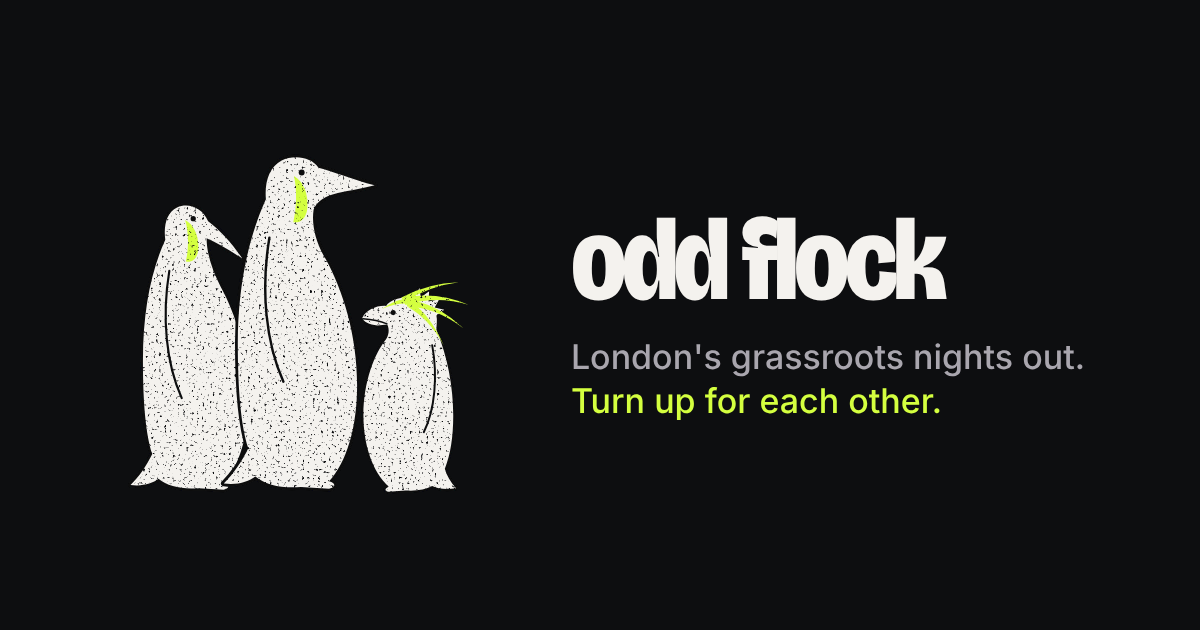
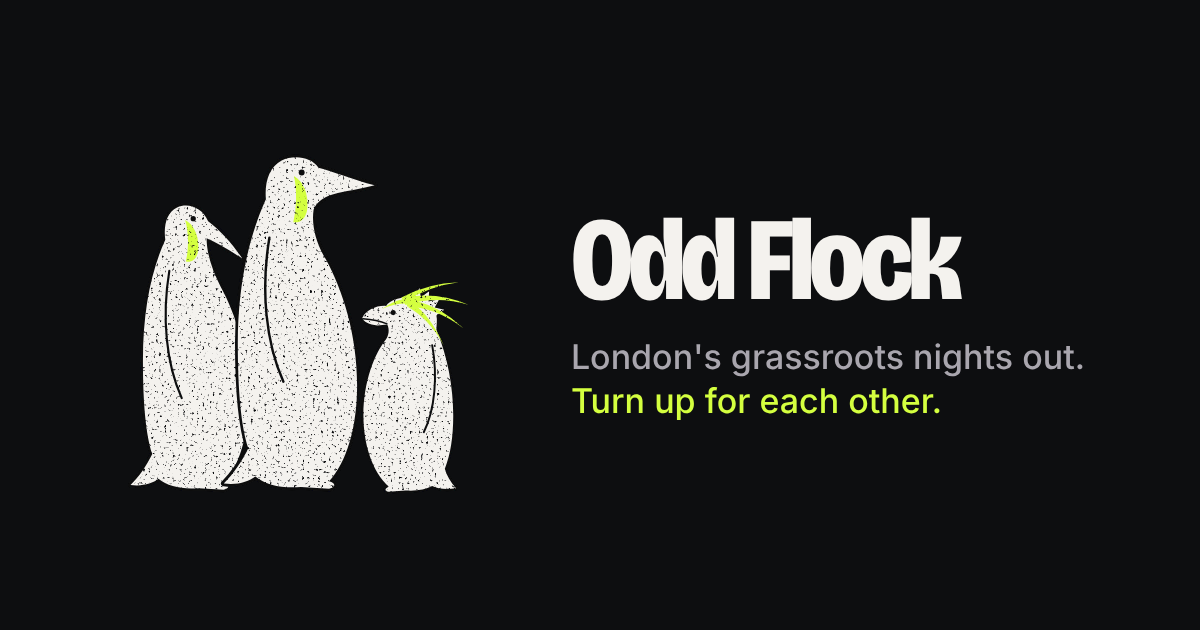
Wordmark reads Odd Flock; Try colours: a floating button (and swatches in Settings) to preview seven palettes — Volt, Crest, Ember, Krill, Aurora, Glacier, Tuxedo — saved per device and applied before first paint
Claude-Session: https://claude.ai/code/session_01XzMa5NHq4JzfZ3jRcp9Sud

Changed region(s): [[0.4625, 0.3317, 0.8017, 0.4825]]

diff --git a/src/css/v2.css b/src/css/v2.css
@@ -5646,3 +5646,45 @@ html body .feed-brand,html body .logo-wrap{white-space:nowrap;flex-shrink:0;}
 html body .feed-head-actions{min-width:0;}
 html body .feed-head-actions > *{white-space:nowrap;}
 @media (max-width:400px){html body .feed-brand{font-size:20px;gap:7px;}html body .feed-brand .feed-mark{width:32px;height:32px;}html body .feed-head-actions{gap:6px;}}
+
+/* ══ Colour palettes (trial) ═══════════════════════════════════════════
+   data-palette on <html> swaps the accent family; Volt is the default.
+   Picked from the "Try colours" button or Settings, saved per device. */
+html[data-palette="crest"][data-theme]{--volt:#ffc93c;--volt-ink:#1a1200;--hot:#ff5a3c;--uv:#7c5cff;}
+html[data-palette="crest"][data-theme="dark"]{--accent:#ffc93c !important;--accent-deep:#f0b21a !important;--gold:#ffc93c !important;--gold-text:#ffc93c !important;--gold-tint:rgba(255, 201, 60, 0.12) !important;--cta-bg:#ffc93c;--cta-fg:#1a1200;}
+html[data-palette="crest"][data-theme="light"]{--accent:#8a5a00 !important;--accent-deep:#6e4700 !important;--gold:#8a5a00 !important;--gold-text:#8a5a00 !important;--gold-tint:rgba(255, 201, 60, 0.14) !important;--cta-bg:#0b0b0d;--cta-fg:#ffc93c;}
+html[data-palette="ember"][data-theme]{--volt:#ff9f45;--volt-ink:#1f0e00;--hot:#ff3d6e;--uv:#6d5cff;}
+html[data-palette="ember"][data-theme="dark"]{--accent:#ff9f45 !important;--accent-deep:#f08a2a !important;--gold:#ff9f45 !important;--gold-text:#ff9f45 !important;--gold-tint:rgba(255, 159, 69, 0.12) !important;--cta-bg:#ff9f45;--cta-fg:#1f0e00;}
+html[data-palette="ember"][data-theme="light"]{--accent:#a14d00 !important;--accent-deep:#823d00 !important;--gold:#a14d00 !important;--gold-text:#a14d00 !important;--gold-tint:rgba(255, 159, 69, 0.14) !important;--cta-bg:#0b0b0d;--cta-fg:#ff9f45;}
+html[data-palette="krill"][data-theme]{--volt:#ff7f73;--volt-ink:#1d0705;--hot:#e5245a;--uv:#7c5cff;}
+html[data-palette="krill"][data-theme="dark"]{--accent:#ff7f73 !important;--accent-deep:#f2685c !important;--gold:#ff7f73 !important;--gold-text:#ff7f73 !important;--gold-tint:rgba(255, 127, 115, 0.12) !important;--cta-bg:#ff7f73;--cta-fg:#1d0705;}
+html[data-palette="krill"][data-theme="light"]{--accent:#b8322a !important;--accent-deep:#962620 !important;--gold:#b8322a !important;--gold-text:#b8322a !important;--gold-tint:rgba(255, 127, 115, 0.14) !important;--cta-bg:#0b0b0d;--cta-fg:#ff7f73;}
+html[data-palette="aurora"][data-theme]{--volt:#5cf2c4;--volt-ink:#02150f;--hot:#ff5fa2;--uv:#8b7bff;}
+html[data-palette="aurora"][data-theme="dark"]{--accent:#5cf2c4 !important;--accent-deep:#38dcae !important;--gold:#5cf2c4 !important;--gold-text:#5cf2c4 !important;--gold-tint:rgba(92, 242, 196, 0.12) !important;--cta-bg:#5cf2c4;--cta-fg:#02150f;--bg:#06090a !important;--bg-2:#040607 !important;--surface:#0f1416 !important;--surface-2:#172022 !important;--glass:rgba(15,20,22,.72);}
+html[data-palette="aurora"][data-theme="light"]{--accent:#0a7a5a !important;--accent-deep:#075f46 !important;--gold:#0a7a5a !important;--gold-text:#0a7a5a !important;--gold-tint:rgba(92, 242, 196, 0.14) !important;--cta-bg:#0b0b0d;--cta-fg:#5cf2c4;}
+html[data-palette="glacier"][data-theme]{--volt:#8cd4ff;--volt-ink:#021320;--hot:#ff6b8b;--uv:#9a8cff;}
+html[data-palette="glacier"][data-theme="dark"]{--accent:#8cd4ff !important;--accent-deep:#6cc2f5 !important;--gold:#8cd4ff !important;--gold-text:#8cd4ff !important;--gold-tint:rgba(140, 212, 255, 0.12) !important;--cta-bg:#8cd4ff;--cta-fg:#021320;--bg:#070a10 !important;--bg-2:#05070b !important;--surface:#10141c !important;--surface-2:#182030 !important;--glass:rgba(16,20,28,.74);}
+html[data-palette="glacier"][data-theme="light"]{--accent:#0a5d94 !important;--accent-deep:#084a76 !important;--gold:#0a5d94 !important;--gold-text:#0a5d94 !important;--gold-tint:rgba(140, 212, 255, 0.14) !important;--cta-bg:#0b0b0d;--cta-fg:#8cd4ff;--bg:#eef2f6 !important;--bg-2:#e2e8ef !important;--surface-2:#e6ecf2 !important;}
+html[data-palette="tuxedo"][data-theme]{--volt:#f4f2ee;--volt-ink:#0b0b0d;--hot:#ff3d6e;--uv:#8b5cff;}
+html[data-palette="tuxedo"][data-theme="dark"]{--accent:#f4f2ee !important;--accent-deep:#dcd9d2 !important;--gold:#f4f2ee !important;--gold-text:#f4f2ee !important;--gold-tint:rgba(244, 242, 238, 0.12) !important;--cta-bg:#f4f2ee;--cta-fg:#0b0b0d;}
+html[data-palette="tuxedo"][data-theme="light"]{--accent:#0b0b0d !important;--accent-deep:#000000 !important;--gold:#0b0b0d !important;--gold-text:#0b0b0d !important;--gold-tint:rgba(11, 11, 13, 0.14) !important;--cta-bg:#0b0b0d;--cta-fg:#f4f2ee;}
+html[data-palette="tuxedo"]{--hm-patch:#ffc93c;}
+html.palette-switching *,html.palette-switching *::before{transition:background-color .35s ease,color .35s ease,border-color .35s ease,fill .35s ease !important;}
+.pal-fab{position:fixed;left:max(14px,env(safe-area-inset-left,0px));bottom:calc(var(--bot-h) + 12px);z-index:60;display:flex;align-items:center;gap:8px;height:40px;padding:0 14px 0 6px;border-radius:999px;border:1px solid var(--line);background:var(--glass);-webkit-backdrop-filter:blur(16px);backdrop-filter:blur(16px);color:var(--text);font:700 13px/1 var(--font-sans);box-shadow:0 10px 30px -12px var(--shadow);cursor:pointer;}
+.pal-fab .pal-dot{width:28px;height:28px;border-radius:50%;background:conic-gradient(var(--volt) 0 50%,var(--hot) 0 75%,var(--uv) 0);box-shadow:inset 0 0 0 2px var(--surface);}
+.pal-pop{position:fixed;left:max(14px,env(safe-area-inset-left,0px));bottom:calc(var(--bot-h) + 60px);z-index:61;width:min(330px,calc(100vw - 28px));max-height:min(70vh,560px);overflow:auto;padding:8px;border-radius:20px;border:1px solid var(--line);background:var(--surface);box-shadow:0 24px 60px -20px var(--shadow);animation:pal-in .22s cubic-bezier(.2,.8,.2,1) backwards;}
+@keyframes pal-in{from{opacity:0;translate:0 8px;scale:.98}}
+.pal-pop h4{margin:6px 10px 8px;font:700 11px/1 var(--font-mono);letter-spacing:.1em;text-transform:uppercase;color:var(--text-muted);}
+.pal-opt{display:flex;align-items:center;gap:12px;width:100%;padding:10px;border:0;border-radius:14px;background:none;color:var(--text);text-align:left;cursor:pointer;}
+.pal-opt:hover{background:var(--surface-2);}
+.pal-opt.on{background:var(--surface-2);box-shadow:inset 0 0 0 1.5px var(--text);}
+.pal-sw{display:flex;flex:none;border-radius:10px;overflow:hidden;box-shadow:0 0 0 1px var(--line);}
+.pal-sw i{width:14px;height:34px;}
+.pal-sw i:first-child{width:26px;}
+.pal-opt b{display:block;font:800 15px/1.2 var(--font-display);}
+.pal-opt span span{display:block;font-size:12px;color:var(--text-muted);margin-top:2px;line-height:1.35;}
+#app[data-view="book"] ~ .pal-fab,#app[data-view="checkout"] ~ .pal-fab,body:has(#app[data-view="book"]) .pal-fab,body:has(#app[data-view="checkout"]) .pal-fab,body:has(#app[data-view="scan"]) .pal-fab,body:has(#app[data-view="detail"]) .pal-fab{display:none;}
+.pal-row{display:flex;flex-wrap:wrap;gap:8px;padding:4px 10px 10px;}
+.pal-dotbtn{width:30px;height:30px;border-radius:50%;border:0;padding:0;cursor:pointer;background:conic-gradient(from 200deg,var(--a) 0 70%,var(--b) 0);box-shadow:0 0 0 1px var(--line);transition:scale .2s cubic-bezier(.2,1.4,.4,1);}
+.pal-dotbtn:hover{scale:1.08;}
+.pal-dotbtn.on{box-shadow:0 0 0 2px var(--surface),0 0 0 4px var(--text);}

diff --git a/index.html b/index.html
@@ -65,6 +65,8 @@
             t = h >= 6 && h < 18 ? "light" : "dark";
           }
           document.documentElement.setAttribute("data-theme", t);
+          var pal = localStorage.getItem("cu_palette");
+          if (pal && pal !== "volt") document.documentElement.setAttribute("data-palette", pal);
         } catch (e) {}
       })();
     </script>
@@ -138,7 +140,7 @@
     <!-- Loading Overlay (removed once map is idle or logged out) -->
     <div id="cumulus-loader" aria-hidden="true">
       <div class="boot-mark"><svg class="brand-mark" viewBox="4 -2 114 114" aria-hidden="true" focusable="false"><g class="hm-a"><g transform="translate(5.77 15) scale(.8846)"><path d="M39 27 C36 22.5 32 18 28 15 C26 10.5 21.5 9 18 10.6 C14.6 12.2 13.6 16.4 14.2 21 C9.6 31 7 44 7 60 C7 74 8 84 10 90 C8 94 6 97 3 100 C7 100.5 10 99.5 12 98 C15 100.5 20 101.5 25 101 L33 101.5 C35 101 35 100 33 99.4 C38 94 41 84 41 72 C41 58 37 45 32 36 C29.5 31 27.6 26 27.5 20.5 C31 22 35 24.5 39 27Z" fill="currentColor" stroke="var(--hm-cut,var(--bg))" stroke-width="1.6" paint-order="stroke" stroke-linejoin="round"/><path d="M15.5 31 C13 46 14.5 61 19.5 72" fill="none" stroke="var(--hm-cut,var(--bg))" stroke-width=".7" stroke-linecap="round"/><path d="M20.6 14.6 C23.6 16.2 25.2 20 24.8 24.4 C24.4 27.2 22.8 28.4 20.8 28 C21.8 24 21.8 18.6 20.6 14.6Z" fill="var(--hm-patch,var(--volt))"/><circle cx="23.2" cy="14.2" r=".85" fill="var(--hm-cut,var(--bg))"/></g></g><g class="hm-b"><g transform="translate(32 3)"><path d="M46 15 C40 13.5 34 11 30 10 C28 7 23 6.2 19.5 8 C16 9.8 14.6 14 15 19 C10 30 7 44 7 60 C7 74 8 84 10 90 C8 94 6 97 3 100 C7 100.5 10 99.5 12 98 C15 100.5 20 101.5 25 101 L33 101.5 C35 101 35 100 33 99.4 C38 94 41 84 41 72 C41 58 37 45 32 36 C29 31 28 26 28.6 22 C29.4 19.5 32 18 35.5 17.2 C39 16.5 43 15.8 46 15Z" fill="currentColor" stroke="var(--hm-cut,var(--bg))" stroke-width="1.6" paint-order="stroke" stroke-linejoin="round"/><path d="M16 30 C13.5 45 15 60 20 71" fill="none" stroke="var(--hm-cut,var(--bg))" stroke-width=".7" stroke-linecap="round"/><path d="M23 12.4 C25.8 14 27.2 17.6 26.8 21.8 C26.4 24.6 24.8 25.9 22.8 25.6 C23.8 21.6 23.9 16.4 23 12.4Z" fill="var(--hm-patch,var(--volt))"/><circle cx="25.2" cy="11.4" r=".85" fill="var(--hm-cut,var(--bg))"/></g></g><g class="hm-c"><g transform="translate(106 42) scale(-.8 .8)"><path d="M31 13 C34.5 12.8 38 14.6 39.4 17.2 C39 18.6 37 19.6 34 20 L30.5 19.6 C29.6 21.5 30 23.4 31 25 C35 30 39 40 39 52 C39 62 36 72 30 77.4 C31.5 78 31.5 79 30 79.2 L24 78.8 C20 79 17 78.6 14.5 77.2 C12.5 78.2 9.5 78.6 6 78 C8 75.6 9.4 73.4 10 71 C8 66 7 60 7 52 C7 42 9 31 13 21.5 C13 20 12.6 18 13 16.4 L10.2 14.4 L13.6 13.6 L12 10.6 L15.8 11.4 L15.6 7.8 L18.6 10 L19 6.6 L21 10 C25 9.6 29 10.4 31 13Z" fill="currentColor" stroke="var(--hm-cut,var(--bg))" stroke-width="1.4" paint-order="stroke" stroke-linejoin="round"/><path d="M30.6 19.4 C33 18.4 36 17.8 39.2 17.6" fill="none" stroke="var(--hm-cut,var(--bg))" stroke-width=".5" stroke-linecap="round"/><path d="M14.5 27 C12.5 38 13.5 50 17.5 58" fill="none" stroke="var(--hm-cut,var(--bg))" stroke-width=".7" stroke-linecap="round"/><g fill="var(--hm-patch,var(--volt))"><path d="M20.67 12.40 Q27.04 11.52 32.60 14.20 Q26.96 10.08 20.53 10.00Z"/><path d="M24.73 10.14 Q13.20 7.65 1.60 12.60 Q12.80 9.15 24.07 12.66Z"/><path d="M23.30 10.75 Q12.94 12.05 3.40 21.00 Q13.06 13.55 23.50 13.25Z"/><path d="M21.81 11.67 Q15.05 16.44 10.40 27.00 Q15.75 17.56 22.99 13.53Z"/><path d="M25.47 9.98 Q15.88 4.91 5.00 4.60 Q15.32 5.89 24.53 11.62Z"/></g><circle cx="28.4" cy="15.4" r=".9" fill="var(--hm-cut,var(--bg))"/></g></g></svg></div>
-      <div class="boot-word">odd flock</div>
+      <div class="boot-word">Odd Flock</div>
       <div class="boot-bar" aria-hidden="true"><i></i></div>
       <div class="boot-tip in">Warming up London…</div>
     </div>

diff --git a/src/js/app/03-theme-boot-signin.js b/src/js/app/03-theme-boot-signin.js
@@ -55,6 +55,55 @@ try {
     });
 } catch (e) {}
 
+// ── Colour palettes (trial) ───────────────────────────────────────────────
+// Swaps the accent family (data-palette on <html>, see v2.css). Saved per
+// device. Reachable from the "Try colours" button and Settings.
+const PALETTE_KEY = "cu_palette";
+const PALETTES = [
+  ["volt", "Volt", "Electric lime. The current look.", ["#d4ff3f", "#ff3d6e", "#8b5cff", "#08080a"]],
+  ["crest", "Crest", "Rockhopper yellow with a beak-red pop. Warm and golden.", ["#ffc93c", "#ff5a3c", "#7c5cff", "#08080a"]],
+  ["ember", "Ember", "The emperor's orange neck patch. Like a lit doorway at night.", ["#ff9f45", "#ff3d6e", "#6d5cff", "#08080a"]],
+  ["krill", "Krill", "Soft coral pink. Friendly, playful, a bit flirty.", ["#ff7f73", "#e5245a", "#7c5cff", "#08080a"]],
+  ["aurora", "Aurora", "Southern-lights mint on deep night. Fresh and calm.", ["#5cf2c4", "#ff5fa2", "#8b7bff", "#06090a"]],
+  ["glacier", "Glacier", "Ice blue on navy. Cool, sleek, the most penguin.", ["#8cd4ff", "#ff6b8b", "#9a8cff", "#070a10"]],
+  ["tuxedo", "Tuxedo", "Black and white like the birds, with a warm yellow kept for the logo.", ["#f4f2ee", "#ff3d6e", "#8b5cff", "#08080a"]],
+];
+function getPalette() {
+  try { return localStorage.getItem(PALETTE_KEY) || "volt"; } catch (e) { return "volt"; }
+}
+function setPalette(key) {
+  if (!PALETTES.some((p) => p[0] === key)) return;
+  try { localStorage.setItem(PALETTE_KEY, key); } catch (e) {}
+  const root = document.documentElement;
+  root.classList.add("palette-switching");
+  setTimeout(() => root.classList.remove("palette-switching"), 450);
+  if (key === "volt") root.removeAttribute("data-palette");
+  else root.setAttribute("data-palette", key);
+  document.querySelectorAll("[data-palette-opt]").forEach((b) => {
+    const on = b.dataset.paletteOpt === key;
+    b.classList.toggle("on", on);
+    b.setAttribute("aria-checked", on ? "true" : "false");
+  });
+}
+function paletteListHtml() {
+  const cur = getPalette();
+  return PALETTES.map(
+    ([k, n, d, sw]) =>
+      `<button type="button" role="radio" class="pal-opt${cur === k ? " on" : ""}" data-palette-opt="${k}" aria-checked="${cur === k}" onclick="setPalette('${k}')">
+        <span class="pal-sw" aria-hidden="true">${sw.map((c) => `<i style="background:${c}"></i>`).join("")}</span>
+        <span><b>${n}</b><span>${d}</span></span>
+      </button>`,
+  ).join("");
+}
+
+function paletteDotsHtml() {
+  const cur = getPalette();
+  return PALETTES.map(
+    ([k, n, , sw]) =>
+      `<button type="button" role="radio" class="pal-dotbtn${cur === k ? " on" : ""}" data-palette-opt="${k}" aria-checked="${cur === k}" aria-label="${n}" title="${n}" onclick="setPalette('${k}')" style="--a:${sw[0]};--b:${sw[1]}"></button>`,
+  ).join("");
+}
+
 // Appearance options for the Settings dropdown on the Discover header —
 // the only place this lives (same pattern as the map's filter dropdown).
 function appearanceMenuHtml() {
@@ -77,7 +126,9 @@ function appearanceMenuHtml() {
             <span class="set-check" aria-hidden="true"><svg viewBox="0 0 24 24" width="16" height="16" fill="none" stroke="currentColor" stroke-width="3" stroke-linecap="round" stroke-linejoin="round"><path d="m5 12 5 5 9-10"/></svg></span>
           </button>`,
       )
-      .join("")}</div>`;
+      .join("")}</div>
+    <div class="set-group-title">Colours</div>
+    <div class="pal-row" role="radiogroup" aria-label="Colours">${paletteDotsHtml()}</div>`;
 }
 
 // ── Day/night cycle ───────────────────────────────────────────────────────

diff --git a/src/js/app/14-delight.js b/src/js/app/14-delight.js
@@ -315,6 +315,45 @@ function delightEventJump(container) {
   document.readyState === "loading" ? document.addEventListener("DOMContentLoaded", start) : start();
 })();
 
+// ── 8. "Try colours": a floating button to flick through palettes ─────────
+// Trial feature while the brand colour is being chosen. Remove this block
+// (and .pal-fab in v2.css) once one is picked.
+(function paletteTrial() {
+  const fab = document.createElement("button");
+  fab.type = "button";
+  fab.className = "pal-fab";
+  fab.setAttribute("aria-haspopup", "true");
+  fab.setAttribute("aria-expanded", "false");
+  fab.innerHTML = '<span class="pal-dot" aria-hidden="true"></span>Try colours';
+  let pop = null;
+  const close = () => {
+    if (!pop) return;
+    pop.remove();
+    pop = null;
+    fab.setAttribute("aria-expanded", "false");
+    document.removeEventListener("pointerdown", outside, true);
+    document.removeEventListener("keydown", esc);
+  };
+  const outside = (e) => {
+    if (pop && !pop.contains(e.target) && !fab.contains(e.target)) close();
+  };
+  const esc = (e) => e.key === "Escape" && close();
+  fab.onclick = () => {
+    if (pop) return close();
+    pop = document.createElement("div");
+    pop.className = "pal-pop";
+    pop.setAttribute("role", "dialog");
+    pop.setAttribute("aria-label", "Try colours");
+    pop.innerHTML = `<h4>Try a colour scheme</h4><div role="radiogroup" aria-label="Colours">${paletteListHtml()}</div>`;
+    document.body.appendChild(pop);
+    fab.setAttribute("aria-expanded", "true");
+    document.addEventListener("pointerdown", outside, true);
+    document.addEventListener("keydown", esc);
+  };
+  const add = () => document.body.appendChild(fab);
+  document.readyState === "loading" ? document.addEventListener("DOMContentLoaded", add) : add();
+})();
+
 // ── Boot ──────────────────────────────────────────────────────────────────
 // Lives in the LAST app script so every function start() can reach is
 // already defined. Never let an unexpected rejection leave a blank screen.

diff --git a/tests/smoke.spec.js b/tests/smoke.spec.js
@@ -922,6 +922,25 @@ test.describe("Odd Flock smoke", () => {
     await expect(page.locator("#map-cards .mcard-pos")).toHaveText("2 / 2");
   });
 
+  test("Try colours: palettes switch the accent, persist, and show in Settings", async ({ page }) => {
+    await page.goto("/");
+    await enterApp(page);
+    await page.click(".pal-fab");
+    await expect(page.locator(".pal-pop .pal-opt")).toHaveCount(7);
+    const accent = () => page.evaluate(() => getComputedStyle(document.documentElement).getPropertyValue("--volt").trim());
+    const before = await accent();
+    await page.click('.pal-pop [data-palette-opt="glacier"]');
+    expect(await page.evaluate(() => document.documentElement.dataset.palette)).toBe("glacier");
+    expect(await accent()).not.toBe(before);
+    await page.reload();
+    expect(await page.evaluate(() => document.documentElement.dataset.palette)).toBe("glacier");
+    await enterApp(page);
+    await page.click("#feed-settings-btn");
+    await expect(page.locator('#feed-settings .pal-dotbtn.on')).toHaveAttribute("data-palette-opt", "glacier");
+    await page.evaluate(() => setPalette("volt"));
+    expect(await page.evaluate(() => document.documentElement.hasAttribute("data-palette"))).toBe(false);
+  });
+
   test("appearance: light / dark / system preference applies, persists and follows the OS", async ({
     page,
   }) => {

diff --git a/src/js/app/05-data-nav-routing.js b/src/js/app/05-data-nav-routing.js
@@ -316,7 +316,7 @@ function renderNav() {
     ];
     navContainer.innerHTML = `
       <div class="top-bar">
-        <div class="logo-wrap" onclick="goFeed()" role="button" tabindex="0" aria-label="Odd Flock home"><span class="feed-mark" aria-hidden="true">${BRAND_MARK}</span><span class="logo">odd flock</span></div>
+        <div class="logo-wrap" onclick="goFeed()" role="button" tabindex="0" aria-label="Odd Flock home"><span class="feed-mark" aria-hidden="true">${BRAND_MARK}</span><span class="logo">Odd Flock</span></div>
         <input id="search-input" class="search-input" placeholder="Search the map…" oninput="onSearchInput()" autocomplete="off"/>
         <button id="filter-toggle-btn" class="filter-toggle-btn flt-btn" onclick="toggleMapFiltersPanel()" aria-label="Filters" aria-expanded="false" aria-controls="map-filters">
           <svg class="flt-ic" viewBox="0 0 24 24" width="18" height="18" fill="none" stroke="currentColor" stroke-width="2.2" stroke-linecap="round" aria-hidden="true"><path d="M4 6h16M4 12h16M4 18h16"/><circle class="k k1" cx="8" cy="6" r="2.4"/><circle class="k k2" cx="16" cy="12" r="2.4"/><circle class="k k3" cx="10" cy="18" r="2.4"/></svg>

diff --git a/src/js/app/13-discover-feed.js b/src/js/app/13-discover-feed.js
@@ -977,7 +977,7 @@ function renderFeed() {
   return `<section class="feed">
     <header class="feed-head">
       <div class="feed-brand" onclick="goFeed()" role="button" tabindex="0" aria-label="Odd Flock home">
-        <span class="feed-mark" aria-hidden="true">${BRAND_MARK}</span><span>odd flock</span>
+        <span class="feed-mark" aria-hidden="true">${BRAND_MARK}</span><span>Odd Flock</span>
       </div>
       <div class="feed-head-actions">
         <button class="icon-pill" onclick="goBrowse()" aria-label="Open map">

diff --git a/sw.js b/sw.js
@@ -1,4 +1,4 @@
-const CACHE = "cumulus-v77";
+const CACHE = "cumulus-v78";
 const ASSETS = [
   "./",
   "./index.html",

diff --git a/README.md b/README.md
@@ -42,7 +42,7 @@ npm run check
 ```
 
 - `npx playwright install chromium` is needed once, to get a browser for the tests.
-- `npm test` runs the Playwright smoke tests: 80 checks across mobile and desktop.
+- `npm test` runs the Playwright smoke tests: 82 checks across mobile and desktop.
 - `npm run check` is fast: it syntax-checks every script and confirms that
   `index.html` and the service worker only reference files that exist.
 
